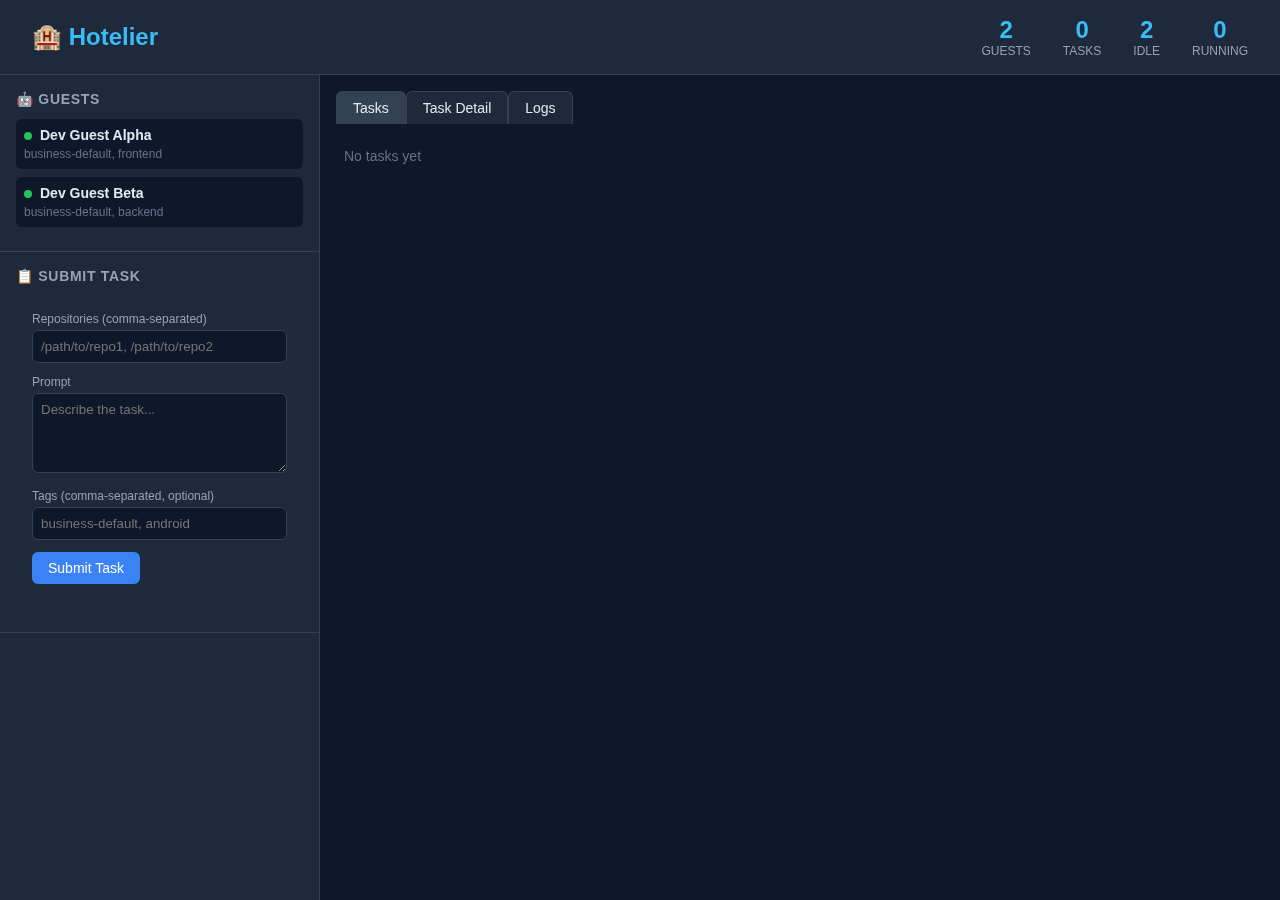
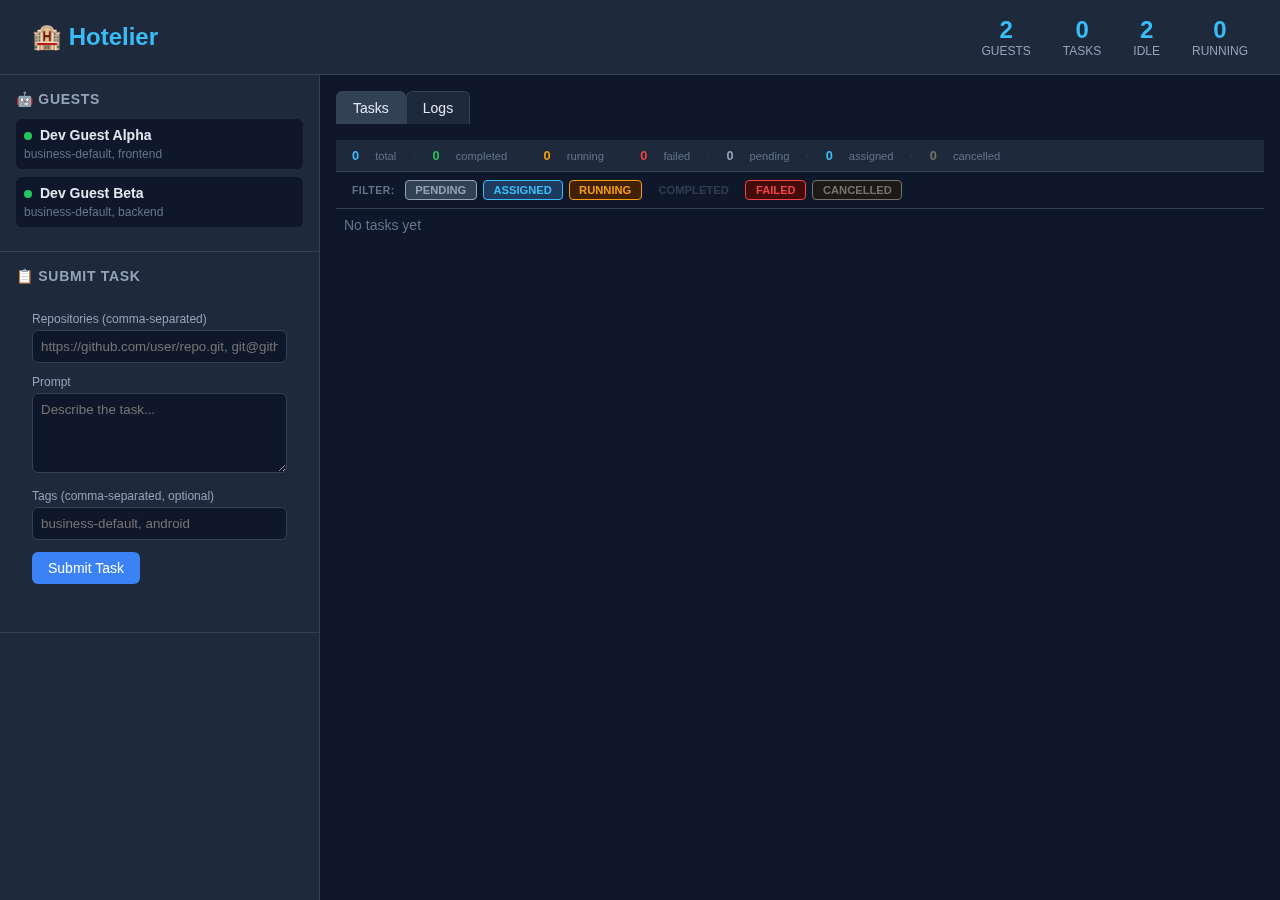
✨ add task status filter and summary display
- Add coloured task summary bar showing counts by status:
  total · completed · running · failed · pending · assigned · cancelled
- Add toggle-button filter row above task list; clicking a status
  toggles its visibility
- Hide COMPLETED tasks by default; all other statuses shown
- Show 'No tasks match the active filter' when filter excludes all
- Extend integration test with Phase 1b (summary/filter assertions)
  and Phase 1c (toggle COMPLETED on/off with visibility checks)
- Update docs/screenshot.png to reflect new layout

diff --git a/web/static/index.html b/web/static/index.html
@@ -181,6 +181,32 @@
         .task-error { background: #1c0a0a; border: 1px solid #7f1d1d; border-radius: 0.375rem; padding: 0.75rem 1rem; margin-bottom: 1rem; font-size: 0.85rem; color: #fca5a5; line-height: 1.5; }
         .task-error-label { font-weight: 600; color: #ef4444; margin-bottom: 0.25rem; font-size: 0.75rem; text-transform: uppercase; letter-spacing: 0.05em; }
         .task-error-text { white-space: pre-wrap; word-break: break-word; }
+
+        /* Task summary — coloured status counts */
+        .task-summary { display: flex; flex-wrap: wrap; gap: 0.5rem 1rem; padding: 0.5rem 1rem; background: #1e293b; border-bottom: 1px solid #334155; font-size: 0.8rem; align-items: center; }
+        .task-summary-count { font-weight: 600; }
+        .task-summary-count.total { color: #38bdf8; }
+        .task-summary-count.completed { color: #22c55e; }
+        .task-summary-count.running { color: #f59e0b; }
+        .task-summary-count.failed { color: #ef4444; }
+        .task-summary-count.pending { color: #94a3b8; }
+        .task-summary-count.assigned { color: #38bdf8; }
+        .task-summary-count.cancelled { color: #78716c; }
+        .task-summary-sep { color: #334155; }
+
+        /* Task status filter row */
+        .task-filter-row { display: flex; flex-wrap: wrap; gap: 0.375rem; padding: 0.5rem 1rem; background: #0f172a; border-bottom: 1px solid #334155; align-items: center; }
+        .task-filter-label { color: #64748b; font-size: 0.65rem; font-weight: 600; text-transform: uppercase; letter-spacing: 0.05em; margin-right: 0.25rem; }
+        .task-filter-btn { padding: 0.2rem 0.6rem; border-radius: 0.25rem; font-size: 0.7rem; font-weight: 600; text-transform: uppercase; cursor: pointer; border: 1px solid transparent; background: transparent; color: #64748b; transition: all 0.15s; }
+        .task-filter-btn:hover { color: #e2e8f0; }
+        .task-filter-btn.active { border-color: currentColor; }
+        .task-filter-btn.active[data-status="PENDING"] { background: #334155; color: #94a3b8; }
+        .task-filter-btn.active[data-status="ASSIGNED"] { background: #1e3a5f; color: #38bdf8; }
+        .task-filter-btn.active[data-status="RUNNING"] { background: #422006; color: #f59e0b; }
+        .task-filter-btn.active[data-status="COMPLETED"] { background: #052e16; color: #22c55e; }
+        .task-filter-btn.active[data-status="FAILED"] { background: #450a0a; color: #ef4444; }
+        .task-filter-btn.active[data-status="CANCELLED"] { background: #1c1917; color: #78716c; }
+        .task-filter-btn.inactive { opacity: 0.4; }
     </style>
 </head>
 <body>
@@ -238,6 +264,8 @@
                 <div class="tab" onclick="showTab('logs')">Logs</div>
             </div>
             <div id="tab-tasks">
+                <div id="task-summary" class="task-summary"></div>
+                <div id="task-filter-row" class="task-filter-row"></div>
                 <div id="task-list"></div>
             </div>
             <div id="tab-logs" style="display:none;">
@@ -259,6 +287,17 @@
         let ws;
         let activeTaskId = null;
         let taskLogs = {};  // Accumulates logs per task: { taskId: [entries] }
+
+        // Task status filter state.  Keys are status strings (e.g. "COMPLETED").
+        // true = shown, false = hidden.  Defaults: COMPLETED hidden, all others shown.
+        let taskFilter = {
+            PENDING:   true,
+            ASSIGNED:  true,
+            RUNNING:   true,
+            COMPLETED: false,
+            FAILED:    true,
+            CANCELLED: true,
+        };
 
         const router = {
             // Push a new URL without reloading the page.
@@ -401,14 +440,74 @@
             }).join('');
         }
 
+        // renderTaskSummary computes per-status counts and renders a compact
+        // summary bar: "total · completed · running · failed · pending · assigned · cancelled"
+        function renderTaskSummary(tasks) {
+            const summary = document.getElementById('task-summary');
+            if (!summary) return;
+
+            const counts = { PENDING: 0, ASSIGNED: 0, RUNNING: 0, COMPLETED: 0, FAILED: 0, CANCELLED: 0 };
+            tasks.forEach(t => { if (counts[t.status] !== undefined) counts[t.status]++; });
+            const total = tasks.length;
+
+            const parts = [
+                { count: total, cls: 'total', label: 'total' },
+                { count: counts.COMPLETED, cls: 'completed', label: 'completed' },
+                { count: counts.RUNNING, cls: 'running', label: 'running' },
+                { count: counts.FAILED, cls: 'failed', label: 'failed' },
+                { count: counts.PENDING, cls: 'pending', label: 'pending' },
+                { count: counts.ASSIGNED, cls: 'assigned', label: 'assigned' },
+                { count: counts.CANCELLED, cls: 'cancelled', label: 'cancelled' },
+            ];
+
+            summary.innerHTML = parts.map((p, i) =>
+                (i > 0 ? '<span class="task-summary-sep">·</span>' : '') +
+                `<span class="task-summary-count ${p.cls}">${p.count}</span> <span style="color:#64748b;font-size:0.7rem;">${p.label}</span>`
+            ).join('');
+        }
+
+        // renderTaskFilter renders toggle buttons for each status.
+        // Clicking a button toggles its visibility (active/inactive).
+        function renderTaskFilter() {
+            const row = document.getElementById('task-filter-row');
+            if (!row) return;
+
+            const statuses = ['PENDING', 'ASSIGNED', 'RUNNING', 'COMPLETED', 'FAILED', 'CANCELLED'];
+            row.innerHTML = '<span class="task-filter-label">Filter:</span>' +
+                statuses.map(s => {
+                    const active = taskFilter[s];
+                    const cls = active ? 'active' : 'inactive';
+                    return `<button class="task-filter-btn ${cls}" data-status="${s}" onclick="toggleTaskFilter('${s}')">${s}</button>`;
+                }).join('');
+        }
+
+        // toggleTaskFilter toggles the visibility of a given status and re-renders.
+        function toggleTaskFilter(status) {
+            taskFilter[status] = !taskFilter[status];
+            // Re-render tasks with the current data (cached from last refresh)
+            fetch('/api/tasks').then(r => r.json()).then(data => renderTasks(data));
+        }
+
         function renderTasks(data) {
             const list = document.getElementById('task-list');
             const tasks = data.tasks || [];
-            if (tasks.length === 0) {
-                list.innerHTML = '<div style="padding:0.5rem;color:#64748b;font-size:0.875rem;">No tasks yet</div>';
+
+            // Render summary and filter row (always with full data)
+            renderTaskSummary(tasks);
+            renderTaskFilter();
+
+            // Apply filter
+            const filtered = tasks.filter(t => taskFilter[t.status] !== false);
+
+            if (filtered.length === 0) {
+                if (tasks.length === 0) {
+                    list.innerHTML = '<div style="padding:0.5rem;color:#64748b;font-size:0.875rem;">No tasks yet</div>';
+                } else {
+                    list.innerHTML = '<div style="padding:0.5rem;color:#64748b;font-size:0.875rem;">No tasks match the active filter</div>';
+                }
                 return;
             }
-            list.innerHTML = tasks.map(t => {
+            list.innerHTML = filtered.map(t => {
                 const badgeClass = `badge-${t.status.toLowerCase()}`;
                 const itemClass = t.status.toLowerCase();
                 const isActive = t.id === activeTaskId ? ' active' : '';

diff --git a/test/integration/validate_tool_ui_test.go b/test/integration/validate_tool_ui_test.go
@@ -364,9 +364,31 @@ func TestValidateToolUI(t *testing.T) {
 	}
 	t.Logf("Failed task created: %s (reason: %s)", failedTaskID, failureReason)
 
+	// Step 4c: Create a completed task to verify the filter hides it by default.
+	completedTaskID := fmt.Sprintf("ui-test-completed-task-%d", time.Now().UnixNano())
+	completedTask := &queue.Task{
+		ID:     completedTaskID,
+		Repos:  []string{"/tmp/test-repo"},
+		Prompt: "A task that should complete successfully",
+		Tags:   []string{"business-default"},
+	}
+	if err := srv.TaskQueue().Add(completedTask); err != nil {
+		t.Fatalf("add completed task: %v", err)
+	}
+	if err := srv.TaskQueue().Assign(completedTaskID, "ui-test-guest"); err != nil {
+		t.Fatalf("assign completed task: %v", err)
+	}
+	if err := srv.TaskQueue().Start(completedTaskID); err != nil {
+		t.Fatalf("start completed task: %v", err)
+	}
+	if err := srv.TaskQueue().Complete(completedTaskID, "Task completed successfully"); err != nil {
+		t.Fatalf("complete task: %v", err)
+	}
+	t.Logf("Completed task created: %s", completedTaskID)
+
 	// Step 5: Validate UI rendering via Playwright by exercising the real
 	// user flow: navigate → task list → click task → detail view.
-	validateUI(t, baseURL, taskID, failedTaskID, failureReason, projectRoot)
+	validateUI(t, baseURL, taskID, failedTaskID, completedTaskID, failureReason, projectRoot)
 }
 
 func validateServerLogs(t *testing.T, srv *server.Server, taskID string, expectedEntries []testLogEntry) {
@@ -416,7 +438,7 @@ func validateServerLogs(t *testing.T, srv *server.Server, taskID string, expecte
 	}
 }
 
-func validateUI(t *testing.T, baseURL, taskID, failedTaskID, failureReason, projectRoot string) {
+func validateUI(t *testing.T, baseURL, taskID, failedTaskID, completedTaskID, failureReason, projectRoot string) {
 	// Allow overriding the screenshot directory via env var for manual inspection.
 	// When set, screenshots survive t.TempDir() cleanup.
 	overrideDir := os.Getenv("SCREENSHOT_DIR")
@@ -450,6 +472,7 @@ const { chromium } = require('playwright');
   const baseURL = '%s';
   const taskId = '%s';
   const failedTaskId = '%s';
+  const completedTaskId = '%s';
   const failureReason = '%s';
   const expectedLogDate = '%s';
   const path = require('path');
@@ -526,7 +549,135 @@ const { chromium } = require('playwright');
   if (tabCount !== 2) fail('Should have exactly 2 tabs (Tasks + Logs), got ' + tabCount);
   console.log('PASS: Only 2 tabs present (Task Detail removed)');
 
+  // =====================================================================
+  // Phase 1b: Task summary and filter row
+  // =====================================================================
+  console.log('=== Phase 1b: Task summary and filter ===');
+
+  // Verify task summary is rendered with coloured counts
+  const summaryResult = await page.evaluate(() => {
+    const summary = document.getElementById('task-summary');
+    if (!summary) return { error: 'task-summary element not found' };
+    const counts = summary.querySelectorAll('.task-summary-count');
+    const countValues = Array.from(counts).map(c => c.textContent.trim());
+    const countClasses = Array.from(counts).map(c => {
+      const classes = c.className.split(' ');
+      return classes.find(cls => cls !== 'task-summary-count');
+    });
+    return { countValues, countClasses };
+  });
+  if (summaryResult.error) fail(summaryResult.error);
+  if (summaryResult.countValues.length < 4) fail('Task summary should have at least 4 count values, got ' + summaryResult.countValues.length);
+  // First count is total, should be non-zero
+  if (summaryResult.countValues[0] === '0') fail('Total task count should be non-zero');
+  if (summaryResult.countClasses[0] !== 'total') fail('First summary count should have class "total"');
+  console.log('PASS: Task summary rendered with', summaryResult.countValues.length, 'counts:', summaryResult.countValues.join(', '));
+
+  // Verify filter row is rendered with toggle buttons
+  const filterResult = await page.evaluate(() => {
+    const row = document.getElementById('task-filter-row');
+    if (!row) return { error: 'task-filter-row element not found' };
+    const buttons = row.querySelectorAll('.task-filter-btn');
+    const buttonStates = Array.from(buttons).map(b => ({
+      status: b.dataset.status,
+      active: b.classList.contains('active'),
+      inactive: b.classList.contains('inactive'),
+    }));
+    return { buttonStates };
+  });
+  if (filterResult.error) fail(filterResult.error);
+  if (filterResult.buttonStates.length < 6) fail('Filter row should have at least 6 buttons, got ' + filterResult.buttonStates.length);
+  // Verify COMPLETED is inactive by default
+  const completedBtn = filterResult.buttonStates.find(b => b.status === 'COMPLETED');
+  if (!completedBtn) fail('COMPLETED filter button not found');
+  if (completedBtn.active) fail('COMPLETED filter should be inactive by default');
+  if (!completedBtn.inactive) fail('COMPLETED filter should have inactive class by default');
+  // Verify other statuses are active by default
+  for (const btn of filterResult.buttonStates) {
+    if (btn.status !== 'COMPLETED' && !btn.active) {
+      fail(btn.status + ' filter should be active by default');
+    }
+  }
+  console.log('PASS: Filter row rendered with', filterResult.buttonStates.length, 'buttons, COMPLETED inactive by default');
+
+  // Verify completed tasks are hidden by default (the test creates a RUNNING task via the guest,
+  // plus the PENDING task and FAILED task — no COMPLETED tasks in the test data, so all shown tasks should be visible)
+  const visibleTaskCount = await page.evaluate(() => {
+    return document.querySelectorAll('.task-item').length;
+  });
+  // With 2 tasks (1 PENDING + 1 FAILED) and COMPLETED hidden, all should be visible
+  console.log('PASS:', visibleTaskCount, 'task(s) visible with default filter (COMPLETED hidden)');
+
   await takeScreenshot('01-front-page');
+
+  // =====================================================================
+  // Phase 1c: Toggle COMPLETED filter — completed task hidden/shown
+  // =====================================================================
+  console.log('=== Phase 1c: Toggle COMPLETED filter ===');
+
+  // With 3 tasks (PENDING + FAILED + COMPLETED) and COMPLETED hidden,
+  // only 2 should be visible
+  const visibleBefore = await page.evaluate(() => {
+    return document.querySelectorAll('.task-item').length;
+  });
+  if (visibleBefore !== 2) fail('Should show 2 tasks (COMPLETED hidden by default), got ' + visibleBefore);
+  console.log('PASS:', visibleBefore, 'tasks visible (COMPLETED hidden)');
+
+  // Verify the completed task is NOT in the list
+  const completedHidden = await page.evaluate((cid) => {
+    const items = document.querySelectorAll('.task-item');
+    for (const item of items) {
+      if (item.textContent.includes(cid)) return false;
+    }
+    return true;
+  }, completedTaskId);
+  if (!completedHidden) fail('Completed task should be hidden by default');
+  console.log('PASS: Completed task hidden by default');
+
+  // Click COMPLETED filter button to show completed tasks
+  await clickEl('button[data-status="COMPLETED"]');
+
+  // Wait for re-render
+  await page.waitForTimeout(500);
+
+  // Now 3 tasks should be visible
+  const visibleAfter = await page.evaluate(() => {
+    return document.querySelectorAll('.task-item').length;
+  });
+  if (visibleAfter !== 3) fail('Should show 3 tasks (COMPLETED now shown), got ' + visibleAfter);
+  console.log('PASS:', visibleAfter, 'tasks visible (COMPLETED shown)');
+
+  // Verify the completed task IS now in the list
+  const completedShown = await page.evaluate((cid) => {
+    const items = document.querySelectorAll('.task-item');
+    for (const item of items) {
+      if (item.textContent.includes(cid)) return true;
+    }
+    return false;
+  }, completedTaskId);
+  if (!completedShown) fail('Completed task should be visible after toggling filter');
+  console.log('PASS: Completed task visible after toggling filter');
+
+  // Verify COMPLETED button is now active
+  const completedBtnActive = await page.evaluate(() => {
+    const btn = document.querySelector('button[data-status="COMPLETED"]');
+    return btn && btn.classList.contains('active') && !btn.classList.contains('inactive');
+  });
+  if (!completedBtnActive) fail('COMPLETED filter button should be active after toggle');
+  console.log('PASS: COMPLETED filter button active after toggle');
+
+  // Toggle COMPLETED back to hide completed tasks
+  await clickEl('button[data-status="COMPLETED"]');
+  await page.waitForTimeout(500);
+
+  // Back to 2 visible tasks
+  const visibleFinal = await page.evaluate(() => {
+    return document.querySelectorAll('.task-item').length;
+  });
+  if (visibleFinal !== 2) fail('Should show 2 tasks (COMPLETED hidden again), got ' + visibleFinal);
+  console.log('PASS:', visibleFinal, 'tasks visible (COMPLETED hidden again)');
+
+  await takeScreenshot('01b-filter-toggle');
 
   // =====================================================================
   // Phase 2: Click task → Logs view with rich tool-block rendering
@@ -1213,7 +1364,7 @@ const { chromium } = require('playwright');
   console.log('All UI validation checks passed!');
   await browser.close();
 })().catch(e => { console.error('Test failed:', e); process.exit(1); });
-`, screenshotDir, baseURL, taskID, failedTaskID, failureReason, logDate)
+`, screenshotDir, baseURL, taskID, failedTaskID, completedTaskID, failureReason, logDate)
 
 	tmpScript := t.TempDir() + "/validate_ui.js"
 	if err := os.WriteFile(tmpScript, []byte(script), 0o644); err != nil {
